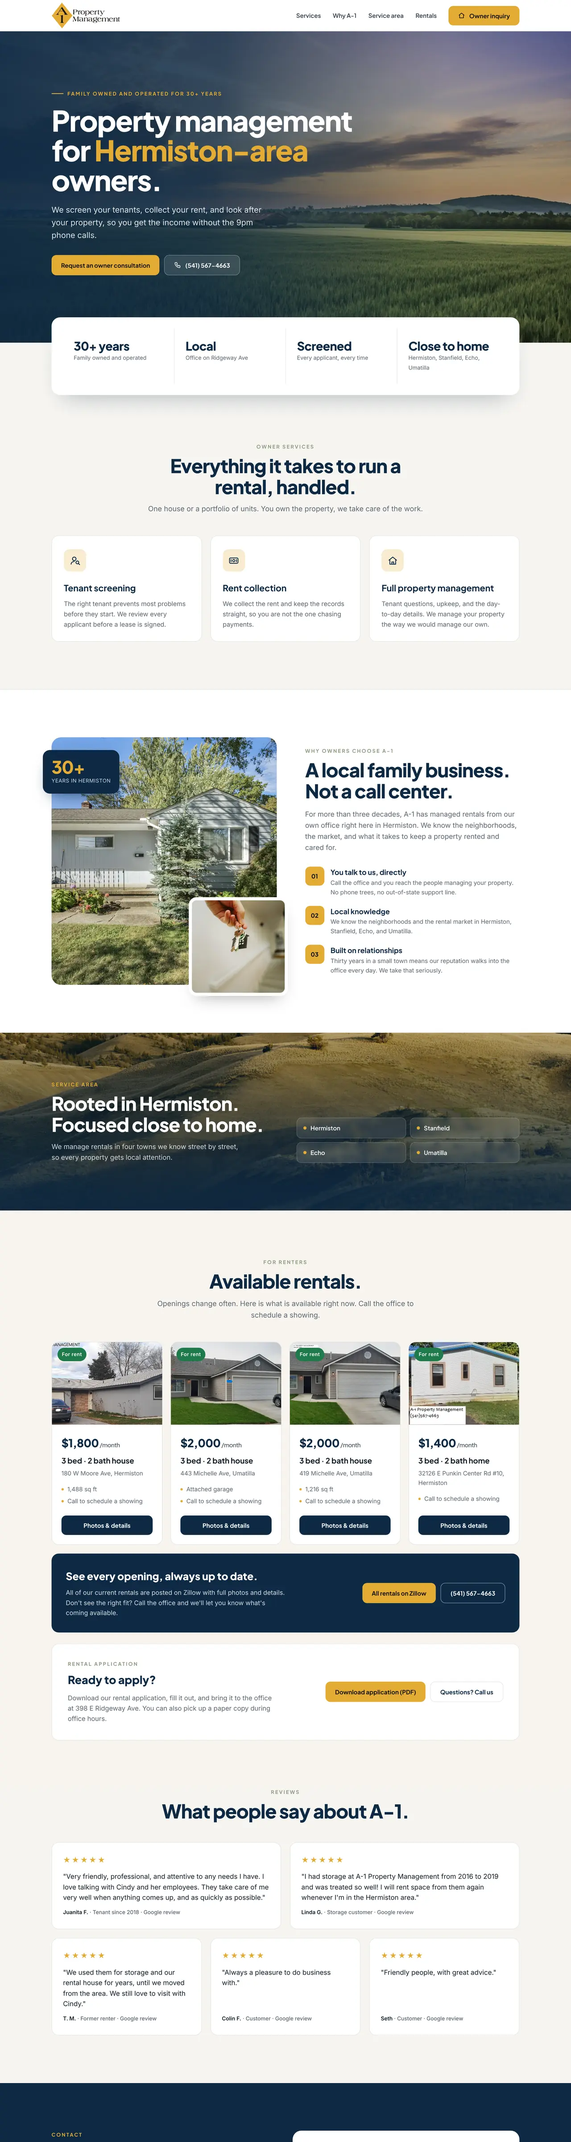
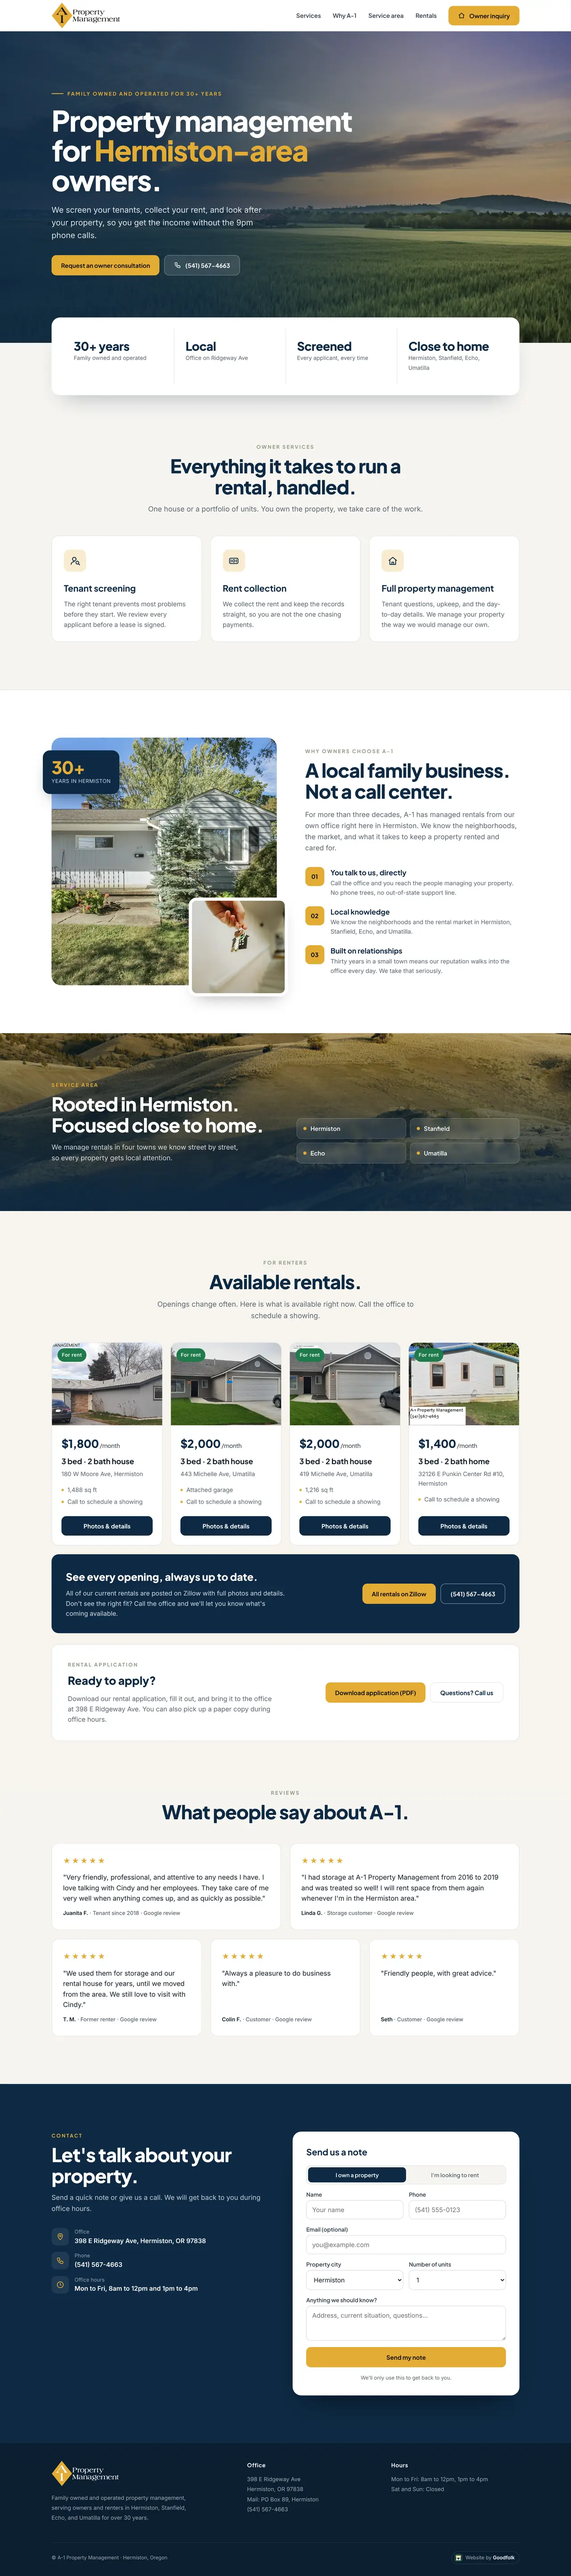
A-1 showcase: full-length desktop capture, clean phone view
Claude-Session: https://claude.ai/code/session_01KxquTLdQqsjH1YUUtYFLUu

diff --git a/index.html b/index.html
@@ -547,10 +547,10 @@ footer .legal a:hover{color:#fff}
       <div class="browser">
         <div class="bar" aria-hidden="true"><i></i><i></i><i></i><b>a1propman.com</b></div>
         <div class="viewport" id="a1view" tabindex="0" aria-label="Scrollable screenshot of the A-1 Property Management website">
-          <img src="/img/work/a1-desktop-scroll.webp" width="1280" height="4800" alt="The A-1 Property Management homepage: services, why owners choose A-1, service area, available rentals, and reviews" loading="lazy">
+          <img src="/img/work/a1-desktop-scroll.webp?v=2" width="1280" height="5771" alt="The A-1 Property Management homepage: services, why owners choose A-1, service area, available rentals, and reviews" loading="lazy">
         </div>
       </div>
-      <div class="phone-shot" aria-hidden="true"><img src="/img/work/a1-phone.webp" width="585" height="1266" alt="" loading="lazy"></div>
+      <div class="phone-shot" aria-hidden="true"><img src="/img/work/a1-phone.webp?v=2" width="585" height="1266" alt="" loading="lazy"></div>
       <p class="scroll-hint">Scroll inside the window to see the whole site.</p>
     </div>
   </div>
